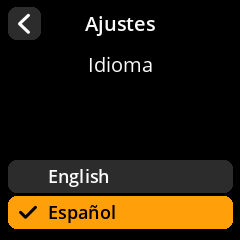
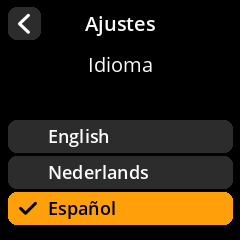
Initial nl

Changed region(s): [[0.0292, 0.4958, 0.9917, 0.9625], [0.9625, 0.9042, 0.9917, 0.9333], [0.9625, 0.6708, 0.9917, 0.7]]

diff --git a/nl/README.md b/nl/README.md
@@ -1,0 +1,162 @@
+# SeedSigner Screenshots: Nederlands
+## Translation progress: 100.0%
+
+---
+
+
+
+---
+
+## Main Menu Views
+
+<table style="border: 0;"><tr><td align="center">  <table align="left" style="border: 1px solid gray;"><tr><td align="center">OpeningSplashView<br/><br/><img src="main_menu_views/OpeningSplashView.png"></td></tr></table>
+  <table align="left" style="border: 1px solid gray;"><tr><td align="center">OpeningSplashView_no_partner_logos<br/><br/><img src="main_menu_views/OpeningSplashView_no_partner_logos.png"></td></tr></table>
+  <table align="left" style="border: 1px solid gray;"><tr><td align="center">MainMenuView<br/><br/><img src="main_menu_views/MainMenuView.png"></td></tr></table>
+  <table align="left" style="border: 1px solid gray;"><tr><td align="center">MainMenuView_SDCardStateChangeToast_removed<br/><br/><img src="main_menu_views/MainMenuView_SDCardStateChangeToast_removed.png"></td></tr></table>
+  <table align="left" style="border: 1px solid gray;"><tr><td align="center">MainMenuView_SDCardStateChangeToast_inserted<br/><br/><img src="main_menu_views/MainMenuView_SDCardStateChangeToast_inserted.png"></td></tr></table>
+  <table align="left" style="border: 1px solid gray;"><tr><td align="center">MainMenuView_RemoveSDCardToast<br/><br/><img src="main_menu_views/MainMenuView_RemoveSDCardToast.png"></td></tr></table>
+  <table align="left" style="border: 1px solid gray;"><tr><td align="center">PowerOptionsView<br/><br/><img src="main_menu_views/PowerOptionsView.png"></td></tr></table>
+  <table align="left" style="border: 1px solid gray;"><tr><td align="center">RestartView<br/><br/><img src="main_menu_views/RestartView.png"></td></tr></table>
+  <table align="left" style="border: 1px solid gray;"><tr><td align="center">PowerOffView<br/><br/><img src="main_menu_views/PowerOffView.png"></td></tr></table>
+</td></tr></table>
+
+---
+
+## Seed Views
+
+<table style="border: 0;"><tr><td align="center">  <table align="left" style="border: 1px solid gray;"><tr><td align="center">SeedsMenuView<br/><br/><img src="seed_views/SeedsMenuView.png"></td></tr></table>
+  <table align="left" style="border: 1px solid gray;"><tr><td align="center">LoadSeedView<br/><br/><img src="seed_views/LoadSeedView.png"></td></tr></table>
+  <table align="left" style="border: 1px solid gray;"><tr><td align="center">SeedMnemonicEntryView<br/><br/><img src="seed_views/SeedMnemonicEntryView.png"></td></tr></table>
+  <table align="left" style="border: 1px solid gray;"><tr><td align="center">SeedMnemonicInvalidView<br/><br/><img src="seed_views/SeedMnemonicInvalidView.png"></td></tr></table>
+  <table align="left" style="border: 1px solid gray;"><tr><td align="center">SeedFinalizeView<br/><br/><img src="seed_views/SeedFinalizeView.png"></td></tr></table>
+  <table align="left" style="border: 1px solid gray;"><tr><td align="center">SeedAddPassphraseView_lowercase<br/><br/><img src="seed_views/SeedAddPassphraseView_lowercase.png"></td></tr></table>
+  <table align="left" style="border: 1px solid gray;"><tr><td align="center">SeedAddPassphraseView_uppercase<br/><br/><img src="seed_views/SeedAddPassphraseView_uppercase.png"></td></tr></table>
+  <table align="left" style="border: 1px solid gray;"><tr><td align="center">SeedAddPassphraseView_digits<br/><br/><img src="seed_views/SeedAddPassphraseView_digits.png"></td></tr></table>
+  <table align="left" style="border: 1px solid gray;"><tr><td align="center">SeedAddPassphraseView_symbols_1<br/><br/><img src="seed_views/SeedAddPassphraseView_symbols_1.png"></td></tr></table>
+  <table align="left" style="border: 1px solid gray;"><tr><td align="center">SeedAddPassphraseView_symbols_2<br/><br/><img src="seed_views/SeedAddPassphraseView_symbols_2.png"></td></tr></table>
+  <table align="left" style="border: 1px solid gray;"><tr><td align="center">SeedAddPassphraseExitDialogView<br/><br/><img src="seed_views/SeedAddPassphraseExitDialogView.png"></td></tr></table>
+  <table align="left" style="border: 1px solid gray;"><tr><td align="center">SeedReviewPassphraseView<br/><br/><img src="seed_views/SeedReviewPassphraseView.png"></td></tr></table>
+  <table align="left" style="border: 1px solid gray;"><tr><td align="center">SeedOptionsView<br/><br/><img src="seed_views/SeedOptionsView.png"></td></tr></table>
+  <table align="left" style="border: 1px solid gray;"><tr><td align="center">SeedBackupView<br/><br/><img src="seed_views/SeedBackupView.png"></td></tr></table>
+  <table align="left" style="border: 1px solid gray;"><tr><td align="center">SeedExportXpubSigTypeView<br/><br/><img src="seed_views/SeedExportXpubSigTypeView.png"></td></tr></table>
+  <table align="left" style="border: 1px solid gray;"><tr><td align="center">SeedExportXpubScriptTypeView<br/><br/><img src="seed_views/SeedExportXpubScriptTypeView.png"></td></tr></table>
+  <table align="left" style="border: 1px solid gray;"><tr><td align="center">SeedExportXpubCustomDerivationView<br/><br/><img src="seed_views/SeedExportXpubCustomDerivationView.png"></td></tr></table>
+  <table align="left" style="border: 1px solid gray;"><tr><td align="center">SeedExportXpubCoordinatorView<br/><br/><img src="seed_views/SeedExportXpubCoordinatorView.png"></td></tr></table>
+  <table align="left" style="border: 1px solid gray;"><tr><td align="center">SeedExportXpubWarningView<br/><br/><img src="seed_views/SeedExportXpubWarningView.png"></td></tr></table>
+  <table align="left" style="border: 1px solid gray;"><tr><td align="center">SeedExportXpubDetailsView<br/><br/><img src="seed_views/SeedExportXpubDetailsView.png"></td></tr></table>
+  <table align="left" style="border: 1px solid gray;"><tr><td align="center">SeedWordsWarningView<br/><br/><img src="seed_views/SeedWordsWarningView.png"></td></tr></table>
+  <table align="left" style="border: 1px solid gray;"><tr><td align="center">SeedWordsView<br/><br/><img src="seed_views/SeedWordsView.png"></td></tr></table>
+  <table align="left" style="border: 1px solid gray;"><tr><td align="center">SeedWordsView_2<br/><br/><img src="seed_views/SeedWordsView_2.png"></td></tr></table>
+  <table align="left" style="border: 1px solid gray;"><tr><td align="center">SeedBIP85ApplicationModeView<br/><br/><img src="seed_views/SeedBIP85ApplicationModeView.png"></td></tr></table>
+  <table align="left" style="border: 1px solid gray;"><tr><td align="center">SeedBIP85SelectChildIndexView<br/><br/><img src="seed_views/SeedBIP85SelectChildIndexView.png"></td></tr></table>
+  <table align="left" style="border: 1px solid gray;"><tr><td align="center">SeedBIP85InvalidChildIndexView<br/><br/><img src="seed_views/SeedBIP85InvalidChildIndexView.png"></td></tr></table>
+  <table align="left" style="border: 1px solid gray;"><tr><td align="center">SeedWordsBackupTestPromptView<br/><br/><img src="seed_views/SeedWordsBackupTestPromptView.png"></td></tr></table>
+  <table align="left" style="border: 1px solid gray;"><tr><td align="center">SeedWordsBackupTestView<br/><br/><img src="seed_views/SeedWordsBackupTestView.png"></td></tr></table>
+  <table align="left" style="border: 1px solid gray;"><tr><td align="center">SeedWordsBackupTestMistakeView<br/><br/><img src="seed_views/SeedWordsBackupTestMistakeView.png"></td></tr></table>
+  <table align="left" style="border: 1px solid gray;"><tr><td align="center">SeedWordsBackupTestSuccessView<br/><br/><img src="seed_views/SeedWordsBackupTestSuccessView.png"></td></tr></table>
+  <table align="left" style="border: 1px solid gray;"><tr><td align="center">SeedTranscribeSeedQRFormatView<br/><br/><img src="seed_views/SeedTranscribeSeedQRFormatView.png"></td></tr></table>
+  <table align="left" style="border: 1px solid gray;"><tr><td align="center">SeedTranscribeSeedQRWarningView<br/><br/><img src="seed_views/SeedTranscribeSeedQRWarningView.png"></td></tr></table>
+  <table align="left" style="border: 1px solid gray;"><tr><td align="center">SeedTranscribeSeedQRWholeQRView_12_Compact<br/><br/><img src="seed_views/SeedTranscribeSeedQRWholeQRView_12_Compact.png"></td></tr></table>
+  <table align="left" style="border: 1px solid gray;"><tr><td align="center">SeedTranscribeSeedQRWholeQRView_12_Standard<br/><br/><img src="seed_views/SeedTranscribeSeedQRWholeQRView_12_Standard.png"></td></tr></table>
+  <table align="left" style="border: 1px solid gray;"><tr><td align="center">SeedTranscribeSeedQRWholeQRView_24_Compact<br/><br/><img src="seed_views/SeedTranscribeSeedQRWholeQRView_24_Compact.png"></td></tr></table>
+  <table align="left" style="border: 1px solid gray;"><tr><td align="center">SeedTranscribeSeedQRWholeQRView_24_Standard<br/><br/><img src="seed_views/SeedTranscribeSeedQRWholeQRView_24_Standard.png"></td></tr></table>
+  <table align="left" style="border: 1px solid gray;"><tr><td align="center">SeedTranscribeSeedQRZoomedInView_12_Compact<br/><br/><img src="seed_views/SeedTranscribeSeedQRZoomedInView_12_Compact.png"></td></tr></table>
+  <table align="left" style="border: 1px solid gray;"><tr><td align="center">SeedTranscribeSeedQRZoomedInView_12_Standard<br/><br/><img src="seed_views/SeedTranscribeSeedQRZoomedInView_12_Standard.png"></td></tr></table>
+  <table align="left" style="border: 1px solid gray;"><tr><td align="center">SeedTranscribeSeedQRConfirmQRPromptView<br/><br/><img src="seed_views/SeedTranscribeSeedQRConfirmQRPromptView.png"></td></tr></table>
+  <table align="left" style="border: 1px solid gray;"><tr><td align="center">SeedSelectSeedView_address_verification<br/><br/><img src="seed_views/SeedSelectSeedView_address_verification.png"></td></tr></table>
+  <table align="left" style="border: 1px solid gray;"><tr><td align="center">AddressVerificationSigTypeView<br/><br/><img src="seed_views/AddressVerificationSigTypeView.png"></td></tr></table>
+  <table align="left" style="border: 1px solid gray;"><tr><td align="center">SeedAddressVerificationView<br/><br/><img src="seed_views/SeedAddressVerificationView.png"></td></tr></table>
+  <table align="left" style="border: 1px solid gray;"><tr><td align="center">SeedAddressVerificationSuccessView<br/><br/><img src="seed_views/SeedAddressVerificationSuccessView.png"></td></tr></table>
+  <table align="left" style="border: 1px solid gray;"><tr><td align="center">LoadMultisigWalletDescriptorView<br/><br/><img src="seed_views/LoadMultisigWalletDescriptorView.png"></td></tr></table>
+  <table align="left" style="border: 1px solid gray;"><tr><td align="center">MultisigWalletDescriptorView<br/><br/><img src="seed_views/MultisigWalletDescriptorView.png"></td></tr></table>
+  <table align="left" style="border: 1px solid gray;"><tr><td align="center">SeedDiscardView<br/><br/><img src="seed_views/SeedDiscardView.png"></td></tr></table>
+  <table align="left" style="border: 1px solid gray;"><tr><td align="center">SeedSelectSeedView_sign_message<br/><br/><img src="seed_views/SeedSelectSeedView_sign_message.png"></td></tr></table>
+  <table align="left" style="border: 1px solid gray;"><tr><td align="center">SeedSignMessageConfirmMessageView<br/><br/><img src="seed_views/SeedSignMessageConfirmMessageView.png"></td></tr></table>
+  <table align="left" style="border: 1px solid gray;"><tr><td align="center">SeedSignMessageConfirmAddressView<br/><br/><img src="seed_views/SeedSignMessageConfirmAddressView.png"></td></tr></table>
+  <table align="left" style="border: 1px solid gray;"><tr><td align="center">SeedElectrumMnemonicStartView<br/><br/><img src="seed_views/SeedElectrumMnemonicStartView.png"></td></tr></table>
+</td></tr></table>
+
+---
+
+## PSBT Views
+
+<table style="border: 0;"><tr><td align="center">  <table align="left" style="border: 1px solid gray;"><tr><td align="center">PSBTSelectSeedView<br/><br/><img src="psbt_views/PSBTSelectSeedView.png"></td></tr></table>
+  <table align="left" style="border: 1px solid gray;"><tr><td align="center">PSBTOverviewView<br/><br/><img src="psbt_views/PSBTOverviewView.png"></td></tr></table>
+  <table align="left" style="border: 1px solid gray;"><tr><td align="center">PSBTUnsupportedScriptTypeWarningView<br/><br/><img src="psbt_views/PSBTUnsupportedScriptTypeWarningView.png"></td></tr></table>
+  <table align="left" style="border: 1px solid gray;"><tr><td align="center">PSBTNoChangeWarningView<br/><br/><img src="psbt_views/PSBTNoChangeWarningView.png"></td></tr></table>
+  <table align="left" style="border: 1px solid gray;"><tr><td align="center">PSBTMathView<br/><br/><img src="psbt_views/PSBTMathView.png"></td></tr></table>
+  <table align="left" style="border: 1px solid gray;"><tr><td align="center">PSBTAddressDetailsView<br/><br/><img src="psbt_views/PSBTAddressDetailsView.png"></td></tr></table>
+  <table align="left" style="border: 1px solid gray;"><tr><td align="center">PSBTChangeDetailsView_multisig_unverified<br/><br/><img src="psbt_views/PSBTChangeDetailsView_multisig_unverified.png"></td></tr></table>
+  <table align="left" style="border: 1px solid gray;"><tr><td align="center">PSBTChangeDetailsView_multisig_verified<br/><br/><img src="psbt_views/PSBTChangeDetailsView_multisig_verified.png"></td></tr></table>
+  <table align="left" style="border: 1px solid gray;"><tr><td align="center">PSBTOverviewView_op_return<br/><br/><img src="psbt_views/PSBTOverviewView_op_return.png"></td></tr></table>
+  <table align="left" style="border: 1px solid gray;"><tr><td align="center">PSBTOpReturnView_text<br/><br/><img src="psbt_views/PSBTOpReturnView_text.png"></td></tr></table>
+  <table align="left" style="border: 1px solid gray;"><tr><td align="center">PSBTOpReturnView_raw_hex_data<br/><br/><img src="psbt_views/PSBTOpReturnView_raw_hex_data.png"></td></tr></table>
+  <table align="left" style="border: 1px solid gray;"><tr><td align="center">PSBTAddressVerificationFailedView_singlesig_change<br/><br/><img src="psbt_views/PSBTAddressVerificationFailedView_singlesig_change.png"></td></tr></table>
+  <table align="left" style="border: 1px solid gray;"><tr><td align="center">PSBTAddressVerificationFailedView_singlesig_selftransfer<br/><br/><img src="psbt_views/PSBTAddressVerificationFailedView_singlesig_selftransfer.png"></td></tr></table>
+  <table align="left" style="border: 1px solid gray;"><tr><td align="center">PSBTAddressVerificationFailedView_multisig_change<br/><br/><img src="psbt_views/PSBTAddressVerificationFailedView_multisig_change.png"></td></tr></table>
+  <table align="left" style="border: 1px solid gray;"><tr><td align="center">PSBTAddressVerificationFailedView_multisig_selftransfer<br/><br/><img src="psbt_views/PSBTAddressVerificationFailedView_multisig_selftransfer.png"></td></tr></table>
+  <table align="left" style="border: 1px solid gray;"><tr><td align="center">PSBTFinalizeView<br/><br/><img src="psbt_views/PSBTFinalizeView.png"></td></tr></table>
+  <table align="left" style="border: 1px solid gray;"><tr><td align="center">PSBTSigningErrorView<br/><br/><img src="psbt_views/PSBTSigningErrorView.png"></td></tr></table>
+</td></tr></table>
+
+---
+
+## Tools Views
+
+<table style="border: 0;"><tr><td align="center">  <table align="left" style="border: 1px solid gray;"><tr><td align="center">ToolsMenuView<br/><br/><img src="tools_views/ToolsMenuView.png"></td></tr></table>
+  <table align="left" style="border: 1px solid gray;"><tr><td align="center">ToolsImageEntropyMnemonicLengthView<br/><br/><img src="tools_views/ToolsImageEntropyMnemonicLengthView.png"></td></tr></table>
+  <table align="left" style="border: 1px solid gray;"><tr><td align="center">ToolsDiceEntropyMnemonicLengthView<br/><br/><img src="tools_views/ToolsDiceEntropyMnemonicLengthView.png"></td></tr></table>
+  <table align="left" style="border: 1px solid gray;"><tr><td align="center">ToolsDiceEntropyEntryView<br/><br/><img src="tools_views/ToolsDiceEntropyEntryView.png"></td></tr></table>
+  <table align="left" style="border: 1px solid gray;"><tr><td align="center">ToolsCalcFinalWordNumWordsView<br/><br/><img src="tools_views/ToolsCalcFinalWordNumWordsView.png"></td></tr></table>
+  <table align="left" style="border: 1px solid gray;"><tr><td align="center">ToolsCalcFinalWordFinalizePromptView<br/><br/><img src="tools_views/ToolsCalcFinalWordFinalizePromptView.png"></td></tr></table>
+  <table align="left" style="border: 1px solid gray;"><tr><td align="center">ToolsCalcFinalWordCoinFlipsView<br/><br/><img src="tools_views/ToolsCalcFinalWordCoinFlipsView.png"></td></tr></table>
+  <table align="left" style="border: 1px solid gray;"><tr><td align="center">ToolsCalcFinalWordShowFinalWordView_pick_word<br/><br/><img src="tools_views/ToolsCalcFinalWordShowFinalWordView_pick_word.png"></td></tr></table>
+  <table align="left" style="border: 1px solid gray;"><tr><td align="center">ToolsCalcFinalWordShowFinalWordView_coin_flips<br/><br/><img src="tools_views/ToolsCalcFinalWordShowFinalWordView_coin_flips.png"></td></tr></table>
+  <table align="left" style="border: 1px solid gray;"><tr><td align="center">ToolsCalcFinalWordDoneView<br/><br/><img src="tools_views/ToolsCalcFinalWordDoneView.png"></td></tr></table>
+  <table align="left" style="border: 1px solid gray;"><tr><td align="center">ToolsAddressExplorerSelectSourceView<br/><br/><img src="tools_views/ToolsAddressExplorerSelectSourceView.png"></td></tr></table>
+  <table align="left" style="border: 1px solid gray;"><tr><td align="center">ToolsAddressExplorerAddressTypeView<br/><br/><img src="tools_views/ToolsAddressExplorerAddressTypeView.png"></td></tr></table>
+  <table align="left" style="border: 1px solid gray;"><tr><td align="center">ToolsAddressExplorerAddressListView<br/><br/><img src="tools_views/ToolsAddressExplorerAddressListView.png"></td></tr></table>
+</td></tr></table>
+
+---
+
+## Settings Views
+
+<table style="border: 0;"><tr><td align="center">  <table align="left" style="border: 1px solid gray;"><tr><td align="center">SettingsMenuView<br/><br/><img src="settings_views/SettingsMenuView.png"></td></tr></table>
+  <table align="left" style="border: 1px solid gray;"><tr><td align="center">SettingsMenuView__Advanced<br/><br/><img src="settings_views/SettingsMenuView__Advanced.png"></td></tr></table>
+  <table align="left" style="border: 1px solid gray;"><tr><td align="center">SettingsEntryUpdateSelectionView_locale<br/><br/><img src="settings_views/SettingsEntryUpdateSelectionView_locale.png"></td></tr></table>
+  <table align="left" style="border: 1px solid gray;"><tr><td align="center">SettingsEntryUpdateSelectionView_persistent_settings<br/><br/><img src="settings_views/SettingsEntryUpdateSelectionView_persistent_settings.png"></td></tr></table>
+  <table align="left" style="border: 1px solid gray;"><tr><td align="center">SettingsEntryUpdateSelectionView_coordinators<br/><br/><img src="settings_views/SettingsEntryUpdateSelectionView_coordinators.png"></td></tr></table>
+  <table align="left" style="border: 1px solid gray;"><tr><td align="center">SettingsEntryUpdateSelectionView_denomination<br/><br/><img src="settings_views/SettingsEntryUpdateSelectionView_denomination.png"></td></tr></table>
+  <table align="left" style="border: 1px solid gray;"><tr><td align="center">SettingsEntryUpdateSelectionView_network<br/><br/><img src="settings_views/SettingsEntryUpdateSelectionView_network.png"></td></tr></table>
+  <table align="left" style="border: 1px solid gray;"><tr><td align="center">SettingsEntryUpdateSelectionView_qr_density<br/><br/><img src="settings_views/SettingsEntryUpdateSelectionView_qr_density.png"></td></tr></table>
+  <table align="left" style="border: 1px solid gray;"><tr><td align="center">SettingsEntryUpdateSelectionView_xpub_export<br/><br/><img src="settings_views/SettingsEntryUpdateSelectionView_xpub_export.png"></td></tr></table>
+  <table align="left" style="border: 1px solid gray;"><tr><td align="center">SettingsEntryUpdateSelectionView_sig_types<br/><br/><img src="settings_views/SettingsEntryUpdateSelectionView_sig_types.png"></td></tr></table>
+  <table align="left" style="border: 1px solid gray;"><tr><td align="center">SettingsEntryUpdateSelectionView_script_types<br/><br/><img src="settings_views/SettingsEntryUpdateSelectionView_script_types.png"></td></tr></table>
+  <table align="left" style="border: 1px solid gray;"><tr><td align="center">SettingsEntryUpdateSelectionView_xpub_details<br/><br/><img src="settings_views/SettingsEntryUpdateSelectionView_xpub_details.png"></td></tr></table>
+  <table align="left" style="border: 1px solid gray;"><tr><td align="center">SettingsEntryUpdateSelectionView_passphrase<br/><br/><img src="settings_views/SettingsEntryUpdateSelectionView_passphrase.png"></td></tr></table>
+  <table align="left" style="border: 1px solid gray;"><tr><td align="center">SettingsEntryUpdateSelectionView_camera_rotation<br/><br/><img src="settings_views/SettingsEntryUpdateSelectionView_camera_rotation.png"></td></tr></table>
+  <table align="left" style="border: 1px solid gray;"><tr><td align="center">SettingsEntryUpdateSelectionView_compact_seedqr<br/><br/><img src="settings_views/SettingsEntryUpdateSelectionView_compact_seedqr.png"></td></tr></table>
+  <table align="left" style="border: 1px solid gray;"><tr><td align="center">SettingsEntryUpdateSelectionView_bip85_child_seeds<br/><br/><img src="settings_views/SettingsEntryUpdateSelectionView_bip85_child_seeds.png"></td></tr></table>
+  <table align="left" style="border: 1px solid gray;"><tr><td align="center">SettingsEntryUpdateSelectionView_electrum_seeds<br/><br/><img src="settings_views/SettingsEntryUpdateSelectionView_electrum_seeds.png"></td></tr></table>
+  <table align="left" style="border: 1px solid gray;"><tr><td align="center">SettingsEntryUpdateSelectionView_message_signing<br/><br/><img src="settings_views/SettingsEntryUpdateSelectionView_message_signing.png"></td></tr></table>
+  <table align="left" style="border: 1px solid gray;"><tr><td align="center">SettingsEntryUpdateSelectionView_privacy_warnings<br/><br/><img src="settings_views/SettingsEntryUpdateSelectionView_privacy_warnings.png"></td></tr></table>
+  <table align="left" style="border: 1px solid gray;"><tr><td align="center">SettingsEntryUpdateSelectionView_dire_warnings<br/><br/><img src="settings_views/SettingsEntryUpdateSelectionView_dire_warnings.png"></td></tr></table>
+  <table align="left" style="border: 1px solid gray;"><tr><td align="center">SettingsEntryUpdateSelectionView_qr_brightness_tips<br/><br/><img src="settings_views/SettingsEntryUpdateSelectionView_qr_brightness_tips.png"></td></tr></table>
+  <table align="left" style="border: 1px solid gray;"><tr><td align="center">SettingsEntryUpdateSelectionView_partner_logos<br/><br/><img src="settings_views/SettingsEntryUpdateSelectionView_partner_logos.png"></td></tr></table>
+  <table align="left" style="border: 1px solid gray;"><tr><td align="center">IOTestView<br/><br/><img src="settings_views/IOTestView.png"></td></tr></table>
+  <table align="left" style="border: 1px solid gray;"><tr><td align="center">DonateView<br/><br/><img src="settings_views/DonateView.png"></td></tr></table>
+  <table align="left" style="border: 1px solid gray;"><tr><td align="center">SettingsIngestSettingsQRView_persistent<br/><br/><img src="settings_views/SettingsIngestSettingsQRView_persistent.png"></td></tr></table>
+  <table align="left" style="border: 1px solid gray;"><tr><td align="center">SettingsIngestSettingsQRView_not_persistent<br/><br/><img src="settings_views/SettingsIngestSettingsQRView_not_persistent.png"></td></tr></table>
+</td></tr></table>
+
+---
+
+## Misc Error Views
+
+<table style="border: 0;"><tr><td align="center">  <table align="left" style="border: 1px solid gray;"><tr><td align="center">NotYetImplementedView<br/><br/><img src="misc_error_views/NotYetImplementedView.png"></td></tr></table>
+  <table align="left" style="border: 1px solid gray;"><tr><td align="center">UnhandledExceptionView<br/><br/><img src="misc_error_views/UnhandledExceptionView.png"></td></tr></table>
+  <table align="left" style="border: 1px solid gray;"><tr><td align="center">NetworkMismatchErrorView<br/><br/><img src="misc_error_views/NetworkMismatchErrorView.png"></td></tr></table>
+  <table align="left" style="border: 1px solid gray;"><tr><td align="center">OptionDisabledView<br/><br/><img src="misc_error_views/OptionDisabledView.png"></td></tr></table>
+  <table align="left" style="border: 1px solid gray;"><tr><td align="center">ErrorView<br/><br/><img src="misc_error_views/ErrorView.png"></td></tr></table>
+</td></tr></table>

diff --git a/README.md b/README.md
@@ -15,4 +15,5 @@ see: https://github.com/SeedSigner/seedsigner/blob/dev/tests/screenshot_generato
 
 ## Currently supported or in-progress languages
 * [English](en/README.md)
+* [Nederlands](nl/README.md)
 * [Español](es/README.md)
